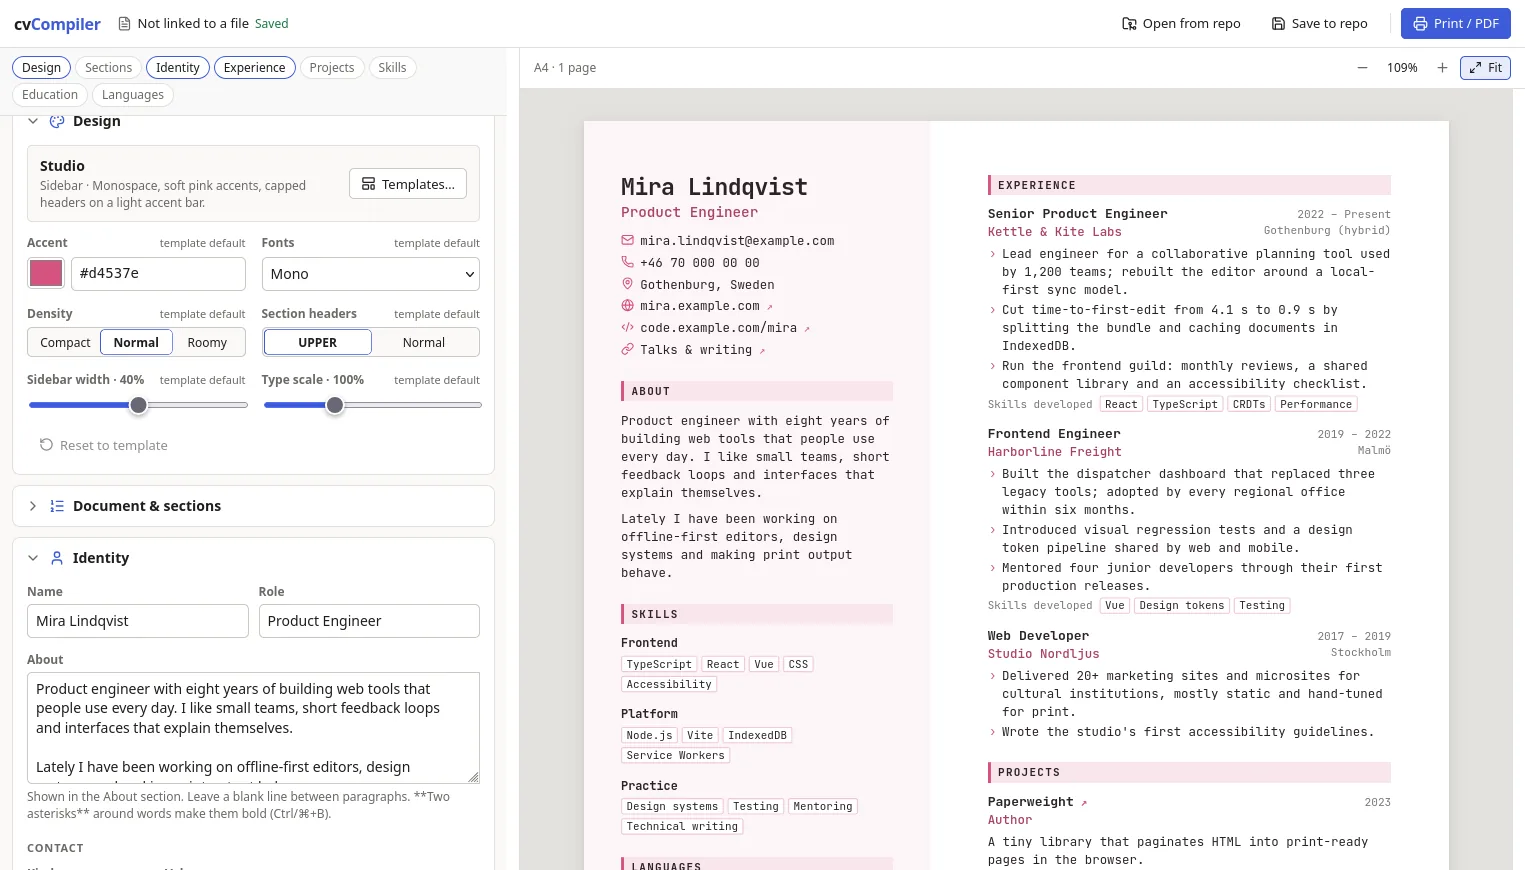
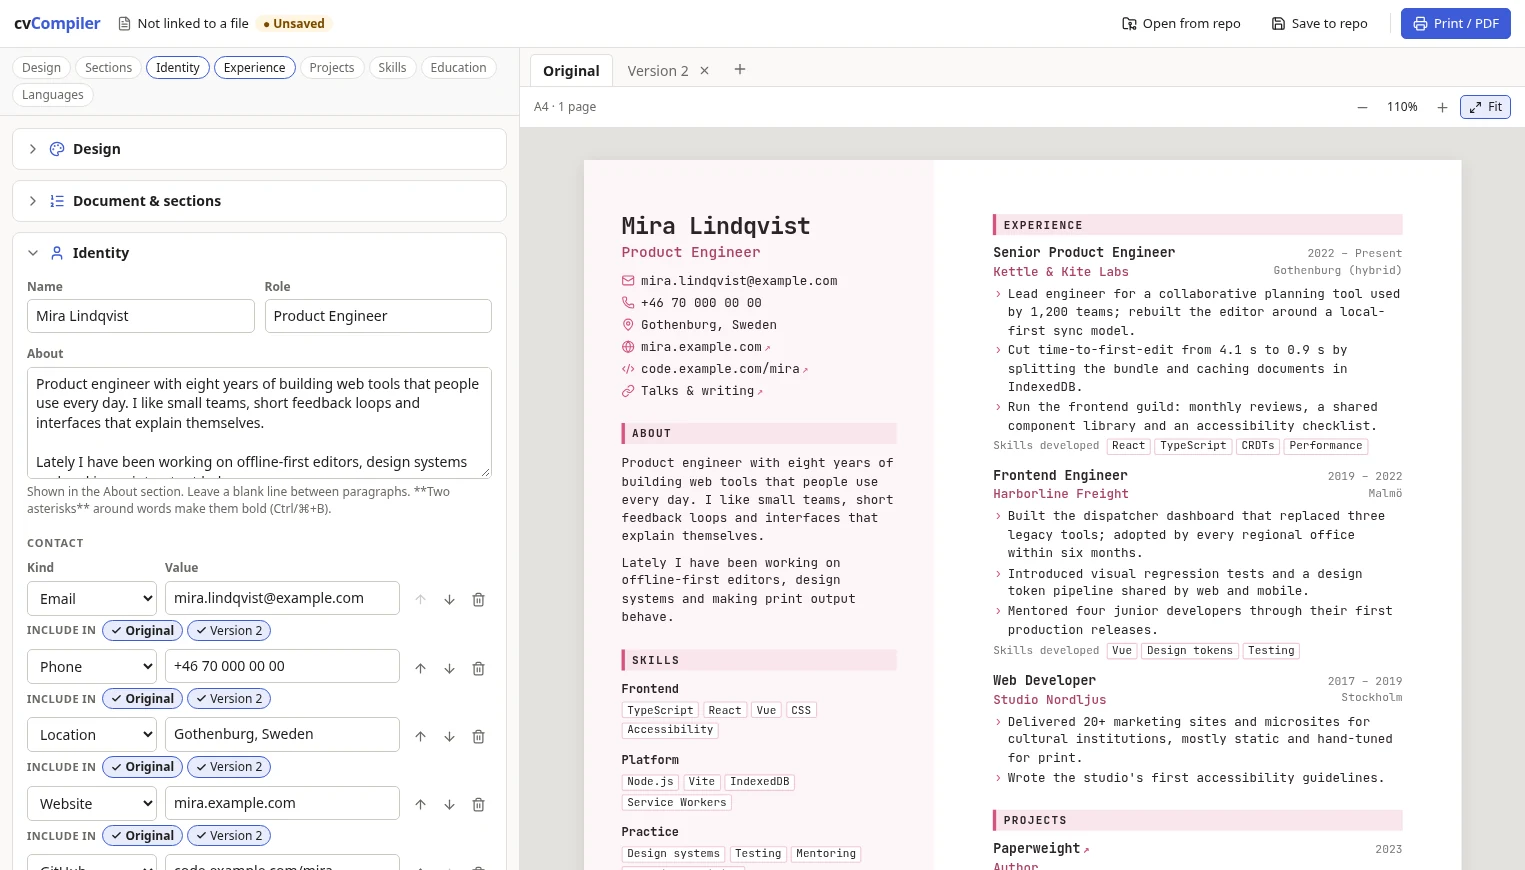
Tidy and update the README
Merge the duplicated setup, saving and export sections, document CV versions, put the templates in one table and retake the editor screenshot with the version tabs.

diff --git a/README.md b/README.md
@@ -6,11 +6,16 @@ There is no backend, no account and no tracking: your CV stays on your machine.
 
 ![The editor: form on the left, live A4 preview on the right](docs/images/editor.webp)
 
+- Live A4 preview with the same page breaks as the PDF
+- Twenty-three templates, with adjustable colour, fonts and spacing
+- Several versions of one CV, each with its own design and selection of entries
+- Your CV is a plain JSON file ([schema](docs/DATA-MODEL.md))
+
 ## Quick start
 
-You need [Node.js](https://nodejs.org) 18.18 or newer and a modern browser
-(Chrome, Edge, Brave or Arc give the best experience; Firefox and Safari work
-too).
+You need [Node.js](https://nodejs.org) 18.18 or newer and a modern browser.
+Chrome, Edge, Brave and Arc work best because they can save straight to a file;
+Firefox and Safari work too.
 
 ```bash
 git clone https://github.com/slowTake/cvCompiler.git
@@ -19,178 +24,145 @@ npm install
 npm run dev
 ```
 
-Open <http://localhost:5173>. The app starts with a fictional demo CV so you
-can see how everything works before you enter anything of your own.
+Open <http://localhost:5173>. The app starts with a fictional demo CV, so you
+can try everything before you enter anything of your own.
+
+cvCompiler has no hosted version. To run a production build instead, use
+`npm run build` and then `npm run preview`. The output in `dist/` is plain
+static files, so any static host can serve it.
 
 ## User guide
 
-### 1. Edit your CV
+### Edit your CV
 
-The left panel is the form; the right panel is the live preview, which
-updates as you type. Use the chips at the top of the form to jump to a
-section: Design, Sections, Identity, Skills, Education, Experience, Projects
-and Languages. You can also click text in the preview to jump to the matching
+The form is on the left and the live preview on the right. Use the chips above
+the form to jump to a section, or click text in the preview to jump to its
 field.
 
-- **Entries** (jobs, education, projects) can be added, reordered with the
-  up/down arrows, and deleted.
-- **Bold** a word in any description by wrapping it in `**double asterisks**`
-  or by selecting it and pressing Ctrl/⌘+B.
-- **Contact** details are a list: pick a kind (phone, email, website, …) and
-  a value. Add as many as you like.
-- **Document & sections** lets you rename sections, hide ones you don't want,
-  and move any section between the columns.
+- **Entries** (jobs, projects, skill groups and so on) can be added, reordered
+  with the arrows and removed. A removal can be undone from the notification.
+- **Bold:** wrap words in `**double asterisks**`, or select them and press
+  Ctrl/⌘+B. This works in About, descriptions and education details.
+- **Contact** details are a list: pick a kind (email, phone, website, …) and
+  enter a value.
+- **Document & sections** sets the document title and lets you rename, reorder,
+  hide and space out sections. In sidebar templates you can also move a section
+  between the columns.
 
-### 2. Pick a design
+### Pick a design
 
-Open **Design → Templates…** and choose from twenty-three templates, grouped by layout:
-sidebar, right sidebar, single column (the most ATS-friendly), header band, timeline and split. Your content
+Open **Design → Templates…** to choose from the thumbnail gallery. Your content
 is kept when you switch.
 
 ![Template gallery](docs/images/templates.webp)
 
+| Layout        | Description                               | Templates |
+| ------------- | ----------------------------------------- | --------- |
+| Sidebar       | Side column on the left                   | Studio (default), Slate, Nocturne, Fern, Terracotta, Cocoa, Ember, Volt |
+| Right sidebar | Side column on the right                  | Charcoal, Paper |
+| Single column | Top to bottom; the most ATS-friendly      | Classic, Minimal, Ledger, Academic, Swiss, Centred |
+| Header band   | Coloured band over a single column        | Harbor, Sunrise, Graphite, Blueprint, Console |
+| Timeline      | A vertical rail with a dot for each entry | Timeline |
+| Split         | Section labels left, content right        | Journal |
+
 Under **Design** you can also override the accent colour, fonts, density,
-header case, sidebar width and type scale. **Reset to template** undoes all
-overrides.
+header case, sidebar width and type scale. Overrides stay when you switch
+templates, and **Reset to template** clears them all. You get a warning if the
+accent colour is hard to read against the page.
 
-### 3. Save your work
+### Keep several versions
 
-Changes are cached in your browser automatically, but that is not a backup.
-Keep the real copy in a file:
+Use the tabs above the preview to tailor one CV for different applications.
 
-- **Chrome / Edge / Brave / Arc:** click **Open…** to bind a `.json` file,
-  then **Save** (Ctrl/⌘+S) writes straight back to it. **Save as…** picks a
-  new file.
-- **Any browser:** drop a `.json` file onto the app to load it. Where **Save** has no file to
-  write to (Firefox and Safari outside dev), it downloads the JSON.
-- **Under `npm run dev`:** **Save to repo** writes the JSON to the `saves/`
-  folder of your checkout (git-ignored), and **Open from repo** lists what is
-  there. This works in Firefox too, where **Save** also goes to `saves/`.
-  Production builds have no such folder.
+- **+** adds a copy of the version you are viewing. Double-click a tab to
+  rename it. The **Original** tab can't be renamed or deleted.
+- The content is **shared**: editing a job's text changes it in every version.
+- Each version has its own template, style overrides, document title and
+  section settings.
+- The **Include in** chips on every entry choose which versions show it.
+- The preview and **Print / PDF** use the selected version. All versions are
+  saved in the same JSON file.
 
-### 4. Export a PDF
+### Save your work
 
-Click **Print / PDF** (or press Ctrl/⌘+P) and in the print dialog set:
+Changes are cached in your browser automatically, so a reload loses nothing.
+That is not a backup: clearing site data removes it. Keep the real copy in a
+file.
 
-| Setting             | Value                |
-| ------------------- | -------------------- |
-| Destination         | Save as PDF          |
-| Paper size          | A4                   |
-| Margins             | None                 |
-| Background graphics | **On**               |
-| Headers and footers | Off                  |
+- **Chrome, Edge, Brave, Arc:** **Open…** links a `.json` file and **Save**
+  (Ctrl/⌘+S) writes straight back to it. **Save as…** (Ctrl+Shift+S or ⇧⌘S)
+  picks a new file. The browser may ask for write permission on the first save.
+- **Firefox and Safari:** drop a `.json` file onto the app, or press
+  Ctrl/⌘+O, to load it. In a production build, Ctrl/⌘+S downloads the JSON.
+- **Under `npm run dev` (any browser):** **Save to repo** writes to the
+  git-ignored `saves/` folder of your checkout, and **Open from repo** lists
+  what is there. In Firefox and Safari, Ctrl/⌘+S saves there too.
+
+The top bar shows the file name and whether you have unsaved changes. Loading
+a broken file changes nothing and lists each problem with its JSON path.
+
+### Export a PDF
+
+Click **Print / PDF** (or press Ctrl/⌘+P) and set these in the print dialog:
+
+| Setting             | Value       |
+| ------------------- | ----------- |
+| Destination         | Save as PDF |
+| Paper size          | A4          |
+| Margins             | None        |
+| Background graphics | **On** (called *Print backgrounds* in Firefox and Safari) |
+| Headers and footers | Off         |
+
+Without background graphics, sidebars, header bands and accent bars come out
+white.
 
 ![Exported PDF](docs/images/pdf-export.webp)
 
-Entries never split across pages and the preview shows the same page breaks
-as the PDF.
+Entries never split across pages, and section headings stay with their first
+entry. The default PDF file name is the document title. The PDF holds only what
+you see; no copy of your CV data is hidden inside it.
 
-## Scripts and setup
+PDFs can't be imported, so keep the JSON file if you want to edit later (see
+[Shelved features](#shelved-features)).
 
-Requires Node 18.18 or newer.
+## Development
 
-```bash
-npm install
-npm run dev        # http://localhost:5173
+| Script               | What it does                                    |
+| -------------------- | ----------------------------------------------- |
+| `npm run dev`        | Dev server with hot reload                      |
+| `npm run build`      | Type-check and build the static site to `dist/` |
+| `npm run preview`    | Serve the production build locally              |
+| `npm run lint`       | oxlint (warnings fail the run)                  |
+| `npm run typecheck`  | Type-check only                                 |
+| `npm test`           | Vitest unit tests                               |
+| `npm run test:watch` | Vitest in watch mode                            |
+
+CI runs lint, tests and the build on every pull request.
+
+### Project layout
+
+```
+data/                 demo CV
+docs/DATA-MODEL.md    the JSON schema
+docs/images/          README screenshots
+server/               dev-server plugin behind the saves/ folder
+src/model/            types, parsing, versions, style overrides, colour maths
+src/templates/        registry, layout skeletons, theme token blocks
+src/preview/          CV renderer, version tabs, pagination, print root
+src/editor/           form: one component per section, plus shared fields
+src/persistence/      browser cache, File System Access, repo saves
+src/styles/           cv.css (CV structure), ui.css (editor), print.css
+tests/                Vitest suites
 ```
 
-| Script            | What it does                                  |
-| ----------------- | --------------------------------------------- |
-| `npm run dev`     | Dev server with hot reload                    |
-| `npm run build`   | Type-check and build the static site to `dist/` |
-| `npm run preview` | Serve the production build locally            |
-| `npm run lint`    | oxlint (warnings fail the run)                |
-| `npm test`        | Vitest unit tests                             |
-
-## Saving your CV
-
-The document is one JSON file ([schema](docs/DATA-MODEL.md)). There are three
-places it can live:
-
-1. **A file on disk (Chromium browsers: Chrome, Edge, Brave, Arc).**
-   **Open…** binds a `.json` file through the File System Access API; **Save**
-   (⌘S / Ctrl+S) writes straight back to it, and **Save as…** (⇧⌘S /
-   Ctrl+Shift+S) picks a new file. The first save after opening asks for
-   write permission, because files opened for reading are read-only until you
-   allow it. The top bar shows the bound file name and a **● Unsaved** marker
-   while you have changes that aren't on disk.
-2. **Drop a file (every browser).** Drop a CV's JSON onto the app to load
-   it. In Firefox and Safari, ⌘S / Ctrl+S downloads the JSON. Loading checks
-   the file and lists clear errors for broken structure (with the JSON path
-   of each problem). Invalid optional values are dropped quietly.
-3. **Browser storage (automatic).** Every change is cached in `localStorage`
-   so a reload or crash doesn't lose work. This is a cache, not a backup:
-   clearing site data removes it. Keep the real copy in a file.
-
-## Exporting a PDF
-
-Click **Print / PDF** (or press ⌘P / Ctrl+P). In the print dialog choose:
-
-- **Destination:** Save as PDF
-- **Paper size:** A4
-- **Margins: None.** The CV already has its own page margins.
-- **Background graphics: on** (Chrome: *More settings → Background graphics*;
-  Safari: *Print backgrounds*; Firefox: *Print backgrounds*). Without it,
-  sidebars, header bands and accent bars come out white.
-- Headers and footers: off.
-
-Only the CV is printed. Entries never split across pages, section headings
-stay with their first entry, page and sidebar backgrounds repeat on every
-page, and column padding repeats at the top of each new page. The on-screen
-preview simulates the same page breaks, so the page count and break points
-you see should closely match the PDF. The PDF's default file name comes from
-the document title (*Document & sections → Document title*).
-
-The PDF holds only what you see: the browser prints the CV's text and links,
-and nothing else from the document is written into it.
-
-The CV page sets `font-variant-ligatures: none`: Firefox writes ligature
-glyphs ("fi", "ffl") into PDFs without text behind them, which would turn
-"offline" into "oine" for every ATS reading the file.
-
-## Shelved features
-
-**PDF import** (dropping a PDF to get the CV back) is shelved. It relied on an
-invisible link in every exported PDF that carried the whole CV as compressed
-JSON, which meant every PDF sent to an employer quietly included that data.
-That was too much risk for too little benefit, so printed PDFs no longer carry
-it and the import code was removed. The last commit with the feature is
-`d3eb26e` on `main`: `src/pdf/`, `src/editor/PdfReview.tsx`,
-`src/editor/usePdfImport.tsx`, the `cv-embed` link in
-`src/preview/PrintRoot.tsx`, its tests and fixtures, `e2e/`, `scripts/`
-(`npm run e2e:pdf`) and the `pdfjs-dist` dependency. To bring it back, restore
-those from that commit, and decide first whether the embedded copy should
-come back at all or be opt-in.
-
-## Templates
-
-A template is a **layout skeleton × theme**. There are six skeletons:
-
-- **Sidebar**: name, contact, about and skills in a side column (30–50% wide),
-  everything else in the main column.
-- **Right sidebar**: name and about on the left, skills, education and
-  languages in a side column on the right.
-- **Single column**: top to bottom. The most ATS-friendly.
-- **Header band**: a coloured band with name and contact over a
-  single-column body.
-- **Timeline**: one column with a vertical rail and a dot for every entry.
-- **Split**: section labels in a narrow left column, content on the right.
-
-Twenty-three templates ship: Studio (default), Slate, Nocturne, Fern,
-Terracotta, Cocoa, Ember, Volt, Charcoal, Paper, Classic, Minimal, Ledger, Academic, Swiss, Centred, Harbor,
-Sunrise, Graphite, Blueprint, Console, Timeline and Journal. Pick one from the thumbnail
-gallery under **Design → Templates…**.
-
-**Design** also lets you override the accent colour, font pairing, density,
-header case, sidebar width and type scale. Overrides are stored in the
-document (`meta.style`), survive template switches, and **Reset to template**
-clears them. Setting a control back to the current template's own value
-removes that override. You get a warning if the accent has less than 3:1 contrast
-against the page, but you can still use it.
+The CV page sets `font-variant-ligatures: none`. Keep it: Firefox writes
+ligature glyphs ("fi", "ffl") into PDFs without text behind them, which turns
+"offline" into "oine" for any ATS reading the file.
 
 ### Adding a template
 
-On an existing skeleton you need no component code:
+A template is a **layout skeleton × theme**. On an existing skeleton you need no
+component code:
 
 1. Add an entry to `TEMPLATES` in `src/templates/registry.ts`: id, name,
    description, skeleton and defaults for every style knob.
@@ -209,26 +181,19 @@ The CV preview reads only `--cv-*` custom properties, and the editor's own
 UI uses a separate `--ui-*` set, so a theme can't restyle the editor. Tests
 enforce this: theme files may only declare `--cv-*` properties.
 
-## Project layout
+## Shelved features
 
-```
-data/                 demo CV
-docs/DATA-MODEL.md    the JSON schema
-docs/images/          README screenshots
-src/model/            types, parsing/normalising, style overrides, colour maths
-src/templates/        registry, skeleton metadata, theme token blocks
-src/preview/          CV renderer, skeleton components, pagination, print root
-src/editor/           form: one component per section, plus shared fields
-src/persistence/      localStorage cache, File System Access, import/export
-src/styles/           cv.css (CV structure), ui.css (editor), print.css
-tests/                Vitest suites
-```
+**PDF import** (dropping a PDF to get the CV back) is shelved. It relied on an
+invisible link that put a compressed copy of the whole CV into every exported
+PDF, including those sent to employers. That was too much risk for too little
+benefit.
 
-## Running it
-
-cvCompiler has no hosted version. Run it locally with `npm run dev`, or
-`npm run build` followed by `npm run preview`. The build in `dist/` is plain
-static files, so any static host will serve it.
+The last commit with the feature is `d3eb26e`. To bring it back, restore from
+it `src/pdf/`, `src/editor/PdfReview.tsx`, `src/editor/usePdfImport.tsx`, the
+`cv-embed` link in `src/preview/PrintRoot.tsx`, the related tests and
+fixtures, `e2e/`, `scripts/` (`npm run e2e:pdf`) and the `pdfjs-dist`
+dependency. Decide first whether the embedded copy should return at all, or
+only as an opt-in.
 
 ## License
 
